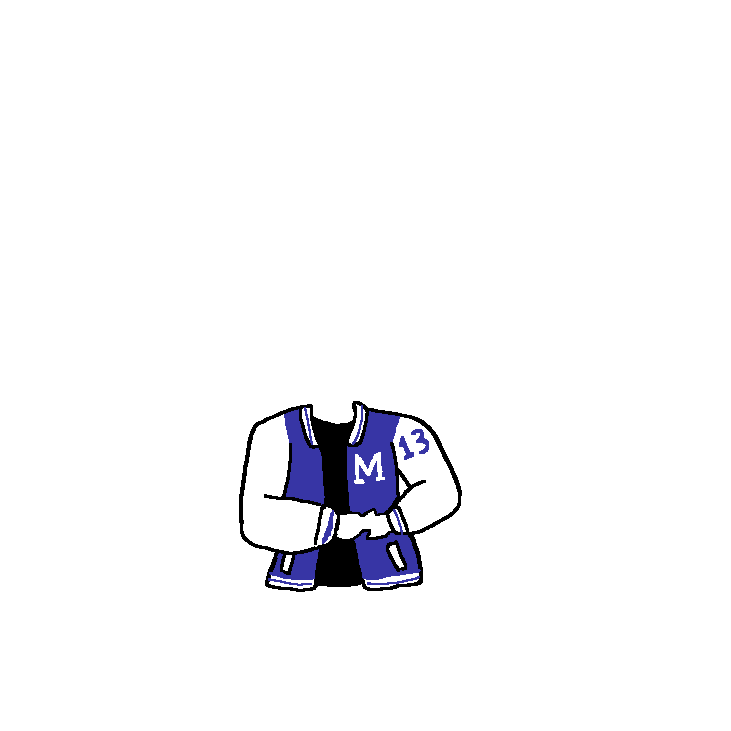
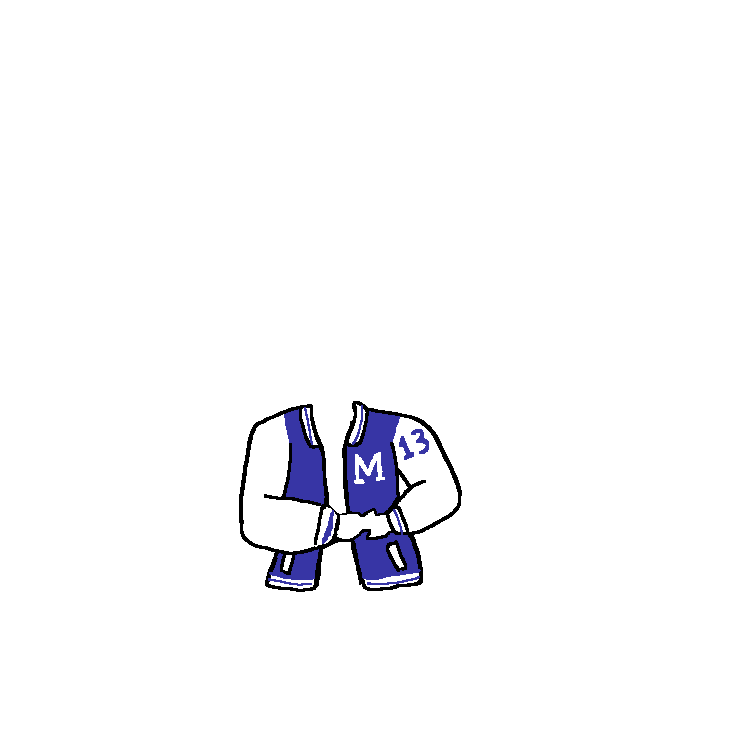
Blazer

Changed region(s): [[0.4213, 0.5718, 0.5116, 0.8126]]

diff --git a/src/parts.js b/src/parts.js
@@ -94,6 +94,42 @@ const hairItems = [
     {
         text: "블론드 컬 보브",
         pointingIndex: 24
+    },
+    {
+        text: "블루 시스루뱅",
+        pointingIndex: 25
+    },
+    {
+        text: "레드 시스루뱅",
+        pointingIndex: 26
+    },
+    {
+        text: "블랙 시스루뱅",
+        pointingIndex: 27
+    },
+    {
+        text: "블루 롱헤어A",
+        pointingIndex: 28
+    },
+    {
+        text: "레드 롱헤어A",
+        pointingIndex: 29
+    },
+    {
+        text: "블랙 롱헤어A",
+        pointingIndex: 30
+    },
+    {
+        text: "블루 롱헤어B",
+        pointingIndex: 31
+    },
+    {
+        text: "레드 롱헤어B",
+        pointingIndex: 32
+    },
+    {
+        text: "블랙 롱헤어B",
+        pointingIndex: 33
     }
 ]
 
@@ -147,8 +183,12 @@ const clotheItems = [
         pointingIndex: 12
     },
     {
-        text: "야구잠바",
+        text: "야구잠바파랑",
         pointingIndex: 13
+    },
+    {
+        text: "야구잠바빨강",
+        pointingIndex: 34
     },
     {
         text: "민속촌 야방 한복",
@@ -157,6 +197,78 @@ const clotheItems = [
     {
         text: "플스잉 한복",
         pointingIndex: 15
+    },
+    {
+        text: "퍼자켓",
+        pointingIndex: 16
+    },
+    {
+        text: "와이셔츠",
+        pointingIndex: 17
+    },
+    {
+        text: "빨강넥타이",
+        pointingIndex: 18
+    },
+    {
+        text: "파랑넥타이",
+        pointingIndex: 19
+    },
+    {
+        text: "회색넥타이",
+        pointingIndex: 20
+    },
+    {
+        text: "까망넥타이",
+        pointingIndex: 21
+    },
+    {
+        text: "차콜 블레이저",
+        pointingIndex: 22
+    },
+    {
+        text: "베이지 블레이저",
+        pointingIndex: 23
+    },
+    {
+        text: "레드 블레이저",
+        pointingIndex: 24
+    },
+    {
+        text: "네이비 블레이저",
+        pointingIndex: 25
+    },
+    {
+        text: "아가일 가디건",
+        pointingIndex: 26
+    },
+    {
+        text: "흰티",
+        pointingIndex: 27
+    },
+    {
+        text: "까망티",
+        pointingIndex: 28
+    },
+    {
+        text: "빨강티",
+        pointingIndex: 29
+    },
+    {
+        text: "핑크티",
+        pointingIndex: 30
+    },
+    {
+        text: "파랑티",
+        pointingIndex: 31
+    },
+    {
+        text: "주황티",
+        pointingIndex: 32
+    },
+    {
+        text: "네온라임티",
+        pointingIndex: 33
     }
 ]
 
@@ -166,7 +278,7 @@ const weaponItems = [
         pointingIndex: 3
     },
     {
-        text: "데스스타",
+        text: "모닝스타",
         pointingIndex: 1
     },
     {
@@ -186,7 +298,7 @@ const weaponItems = [
         pointingIndex: 6
     },
     {
-        text: "스시라차",
+        text: "스리라차",
         pointingIndex: 7
     },
     {
@@ -216,6 +328,18 @@ const weaponItems = [
     {
         text: "화염병",
         pointingIndex: 14
+    },
+    {
+        text: "아아",
+        pointingIndex: 15
+    },
+    {
+        text: "옐로카드",
+        pointingIndex: 16
+    },
+    {
+        text: "레드카드",
+        pointingIndex: 17
     }
 ]
 

diff --git a/src/assets/scss/style.scss b/src/assets/scss/style.scss
@@ -66,9 +66,9 @@
 
 // update this map when new items or categories are added
 $items: (
-    "hairs": 24,
-    "weapons": 14,
-    "clothes": 15,
+    "hairs": 33,
+    "weapons": 17,
+    "clothes": 34,
     "accessoriesA": 30,
     "accessoriesB": 10,
     "balloon": 4,
